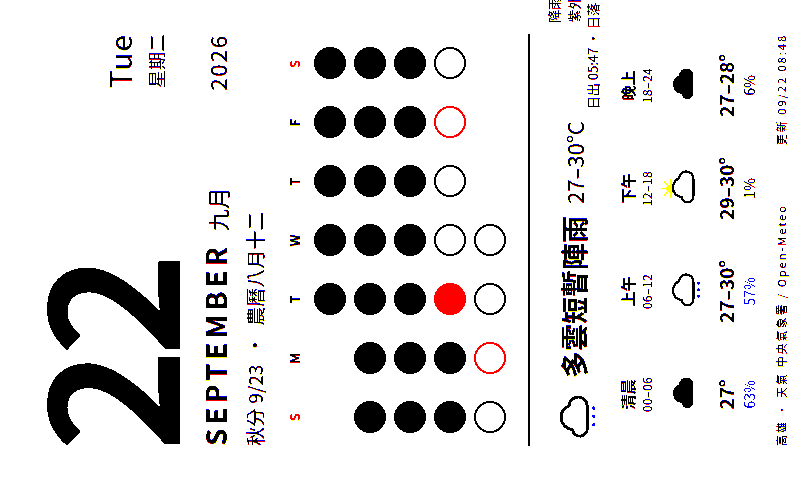
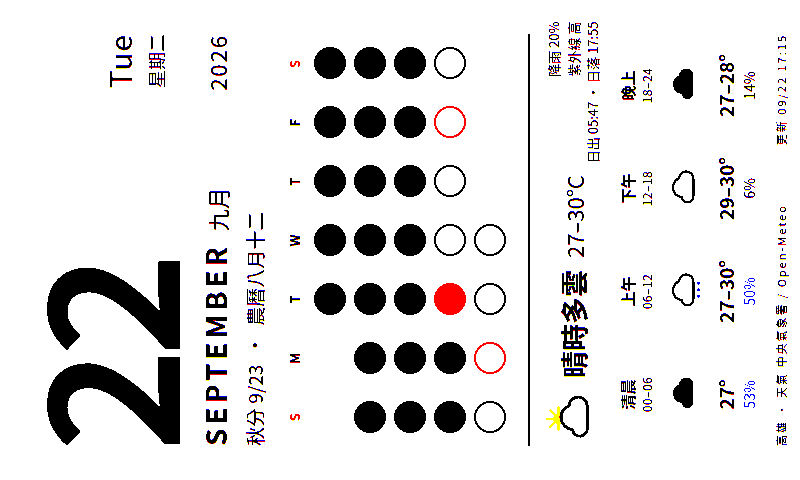
deploy: cf7d1051eb6821bc691ba0ade4beb12cdf9fe0ef

diff --git a/calendar.html b/calendar.html
@@ -54,9 +54,9 @@
   <div class="today"><span class="lunar">秋分 9/23</span><span>·</span><span class="lunar">農曆八月十二</span></div>
   <div class="grid"><div class="h we">S</div><div class="h">M</div><div class="h">T</div><div class="h">W</div><div class="h">T</div><div class="h">F</div><div class="h we">S</div><div class="dot empty"></div><div class="dot empty"></div><div class="dot past" title="1"></div><div class="dot past" title="2"></div><div class="dot past" title="3"></div><div class="dot past" title="4"></div><div class="dot past" title="5"></div><div class="dot past" title="6"></div><div class="dot past" title="7"></div><div class="dot past" title="8"></div><div class="dot past" title="9"></div><div class="dot past" title="10"></div><div class="dot past" title="11"></div><div class="dot past" title="12"></div><div class="dot past" title="13"></div><div class="dot past" title="14"></div><div class="dot past" title="15"></div><div class="dot past" title="16"></div><div class="dot past" title="17"></div><div class="dot past" title="18"></div><div class="dot past" title="19"></div><div class="dot past" title="20"></div><div class="dot past" title="21"></div><div class="dot now" title="22"></div><div class="dot future" title="23"></div><div class="dot future" title="24"></div><div class="dot future hol" title="25"></div><div class="dot future" title="26"></div><div class="dot future" title="27"></div><div class="dot future hol" title="28"></div><div class="dot future" title="29"></div><div class="dot future" title="30"></div></div>
   <div class="wx"><div class="line">
-    <div class="wxhead"><svg viewBox="0 0 64 68" xmlns="http://www.w3.org/2000/svg"><path d="M20 50h26a11 11 0 0 0 1-22 15 15 0 0 0-29 4 9 9 0 0 0 2 18z" fill="#fff" stroke="#000" stroke-width="3.5" stroke-linejoin="round"/><g fill="#0040ff"><circle cx="24" cy="58" r="2.2"/><circle cx="34" cy="58" r="2.2"/><circle cx="44" cy="58" r="2.2"/></g></svg><span class="desc">多雲短暫陣雨</span><span class="temp">27–30°C</span>
-      <div class="meta">降雨 30%<br>紫外線 高<br>日出 05:47 · 日落 17:55</div></div>
-    <div class="slots"><div class="slot"><div class="n">清晨</div><div class="hrs">00–06</div><svg viewBox="0 0 64 68" xmlns="http://www.w3.org/2000/svg"><path d="M20 50h26a11 11 0 0 0 1-22 15 15 0 0 0-29 4 9 9 0 0 0 2 18z" fill="#000"/></svg><div class="t">27°</div><div class="p ">63%</div></div><div class="slot"><div class="n">上午</div><div class="hrs">06–12</div><svg viewBox="0 0 64 68" xmlns="http://www.w3.org/2000/svg"><path d="M20 50h26a11 11 0 0 0 1-22 15 15 0 0 0-29 4 9 9 0 0 0 2 18z" fill="#fff" stroke="#000" stroke-width="3.5" stroke-linejoin="round"/><g fill="#0040ff"><circle cx="24" cy="58" r="2.2"/><circle cx="34" cy="58" r="2.2"/><circle cx="44" cy="58" r="2.2"/></g></svg><div class="t">27–30°</div><div class="p ">57%</div></div><div class="slot"><div class="n">下午</div><div class="hrs">12–18</div><svg viewBox="0 0 64 68" xmlns="http://www.w3.org/2000/svg"><g transform="translate(12 -4) scale(.6)"><circle cx="32" cy="32" r="11" fill="#f5c400"/><g stroke="#f5c400" stroke-width="4" stroke-linecap="round"><line x1="32" y1="32" x2="32" y2="8" transform="rotate(0 32 32)"/><line x1="32" y1="32" x2="32" y2="8" transform="rotate(45 32 32)"/><line x1="32" y1="32" x2="32" y2="8" transform="rotate(90 32 32)"/><line x1="32" y1="32" x2="32" y2="8" transform="rotate(135 32 32)"/><line x1="32" y1="32" x2="32" y2="8" transform="rotate(180 32 32)"/><line x1="32" y1="32" x2="32" y2="8" transform="rotate(225 32 32)"/><line x1="32" y1="32" x2="32" y2="8" transform="rotate(270 32 32)"/><line x1="32" y1="32" x2="32" y2="8" transform="rotate(315 32 32)"/></g></g><path d="M20 50h26a11 11 0 0 0 1-22 15 15 0 0 0-29 4 9 9 0 0 0 2 18z" fill="#fff" stroke="#000" stroke-width="3.5" stroke-linejoin="round"/></svg><div class="t">29–30°</div><div class="p dry">1%</div></div><div class="slot"><div class="n">晚上</div><div class="hrs">18–24</div><svg viewBox="0 0 64 68" xmlns="http://www.w3.org/2000/svg"><path d="M20 50h26a11 11 0 0 0 1-22 15 15 0 0 0-29 4 9 9 0 0 0 2 18z" fill="#000"/></svg><div class="t">27–28°</div><div class="p dry">6%</div></div></div>
+    <div class="wxhead"><svg viewBox="0 0 64 68" xmlns="http://www.w3.org/2000/svg"><g transform="translate(12 -4) scale(.6)"><circle cx="32" cy="32" r="11" fill="#f5c400"/><g stroke="#f5c400" stroke-width="4" stroke-linecap="round"><line x1="32" y1="32" x2="32" y2="8" transform="rotate(0 32 32)"/><line x1="32" y1="32" x2="32" y2="8" transform="rotate(45 32 32)"/><line x1="32" y1="32" x2="32" y2="8" transform="rotate(90 32 32)"/><line x1="32" y1="32" x2="32" y2="8" transform="rotate(135 32 32)"/><line x1="32" y1="32" x2="32" y2="8" transform="rotate(180 32 32)"/><line x1="32" y1="32" x2="32" y2="8" transform="rotate(225 32 32)"/><line x1="32" y1="32" x2="32" y2="8" transform="rotate(270 32 32)"/><line x1="32" y1="32" x2="32" y2="8" transform="rotate(315 32 32)"/></g></g><path d="M20 50h26a11 11 0 0 0 1-22 15 15 0 0 0-29 4 9 9 0 0 0 2 18z" fill="#fff" stroke="#000" stroke-width="3.5" stroke-linejoin="round"/></svg><span class="desc">晴時多雲</span><span class="temp">27–30°C</span>
+      <div class="meta">降雨 20%<br>紫外線 高<br>日出 05:47 · 日落 17:55</div></div>
+    <div class="slots"><div class="slot"><div class="n">清晨</div><div class="hrs">00–06</div><svg viewBox="0 0 64 68" xmlns="http://www.w3.org/2000/svg"><path d="M20 50h26a11 11 0 0 0 1-22 15 15 0 0 0-29 4 9 9 0 0 0 2 18z" fill="#000"/></svg><div class="t">27°</div><div class="p ">53%</div></div><div class="slot"><div class="n">上午</div><div class="hrs">06–12</div><svg viewBox="0 0 64 68" xmlns="http://www.w3.org/2000/svg"><path d="M20 50h26a11 11 0 0 0 1-22 15 15 0 0 0-29 4 9 9 0 0 0 2 18z" fill="#fff" stroke="#000" stroke-width="3.5" stroke-linejoin="round"/><g fill="#0040ff"><circle cx="24" cy="58" r="2.2"/><circle cx="34" cy="58" r="2.2"/><circle cx="44" cy="58" r="2.2"/></g></svg><div class="t">27–30°</div><div class="p ">50%</div></div><div class="slot"><div class="n">下午</div><div class="hrs">12–18</div><svg viewBox="0 0 64 68" xmlns="http://www.w3.org/2000/svg"><path d="M20 50h26a11 11 0 0 0 1-22 15 15 0 0 0-29 4 9 9 0 0 0 2 18z" fill="#fff" stroke="#000" stroke-width="3.5" stroke-linejoin="round"/></svg><div class="t">29–30°</div><div class="p dry">6%</div></div><div class="slot"><div class="n">晚上</div><div class="hrs">18–24</div><svg viewBox="0 0 64 68" xmlns="http://www.w3.org/2000/svg"><path d="M20 50h26a11 11 0 0 0 1-22 15 15 0 0 0-29 4 9 9 0 0 0 2 18z" fill="#000"/></svg><div class="t">27–28°</div><div class="p dry">14%</div></div></div>
   </div></div>
-  <div class="foot"><span>高雄 · 天氣 中央氣象署 / Open-Meteo</span><span>更新 09/22 08:48</span></div>
+  <div class="foot"><span>高雄 · 天氣 中央氣象署 / Open-Meteo</span><span>更新 09/22 17:15</span></div>
 </div></body></html>
